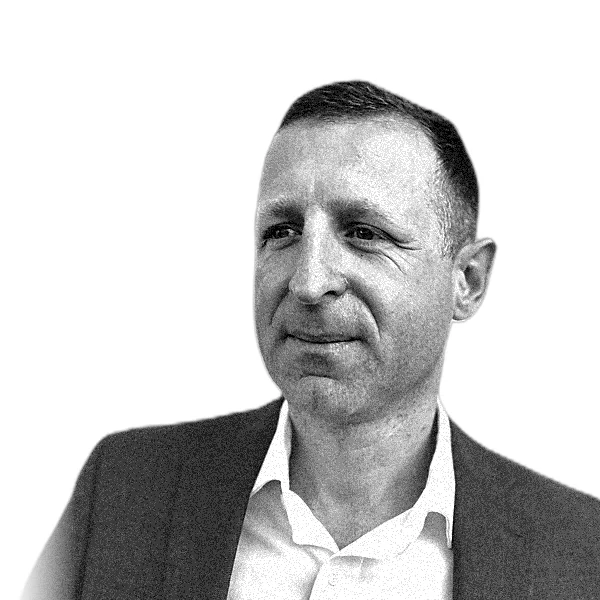
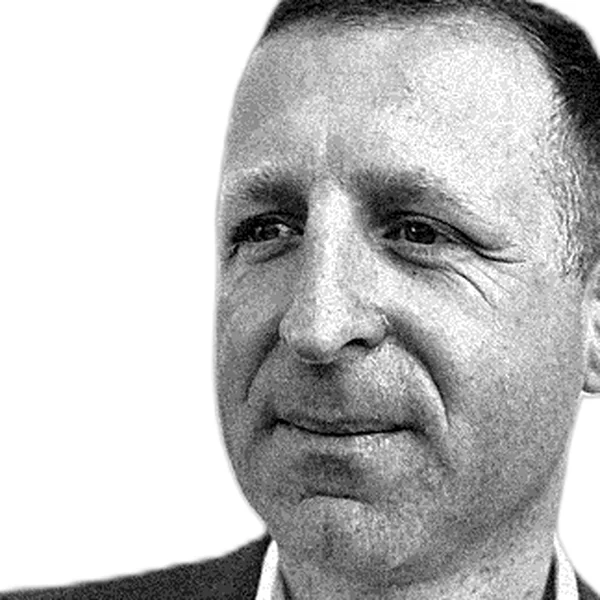
#1: site portraits use one tight square window, no source frame edges
Claude-Session: https://claude.ai/code/session_01UCnr32FKNaKDppzBLak19a

diff --git a/tools/pages/cutouts_1.py b/tools/pages/cutouts_1.py
@@ -88,8 +88,10 @@ for k, path in SRC.items():
     outp = rgb * Ac[..., None] + ORANGE * (1 - Ac[..., None])
     Image.fromarray(outp.astype(np.uint8)).save(OUT / f'{k}.png')
     # site version: same cut and tone, grayscale on white; the page applies its own orange multiply
-    site = (Lc * Ac + 1.0 * (1 - Ac)) * 255
-    Image.fromarray(site.astype(np.uint8)).convert('RGB').save(OUT.parents[1] / 'img/1' / f'sp-{k}.webp', 'WEBP', quality=84)
+    site = Image.fromarray(((Lc * Ac + 1.0 * (1 - Ac)) * 255).astype(np.uint8)).convert('RGB')
+    # square window 0.18H..0.72H: same tight crop for all six, hides every source frame edge (talk tiles on the covers use the same)
+    y0, y1 = int(0.18 * H), int(0.72 * H); side = y1 - y0; x0 = W // 2 - side // 2
+    site.crop((x0, y0, x0 + side, y1)).resize((600, 600), Image.LANCZOS).save(OUT.parents[1] / 'img/1' / f'sp-{k}.webp', 'WEBP', quality=84)
     print(k, 'face', int(fh), 'lo/mid/hi %.2f %.2f %.2f' % (lo, mid, hi))
 
 sheet = Image.new('RGB', (W*6 + 50, H), 'white')
